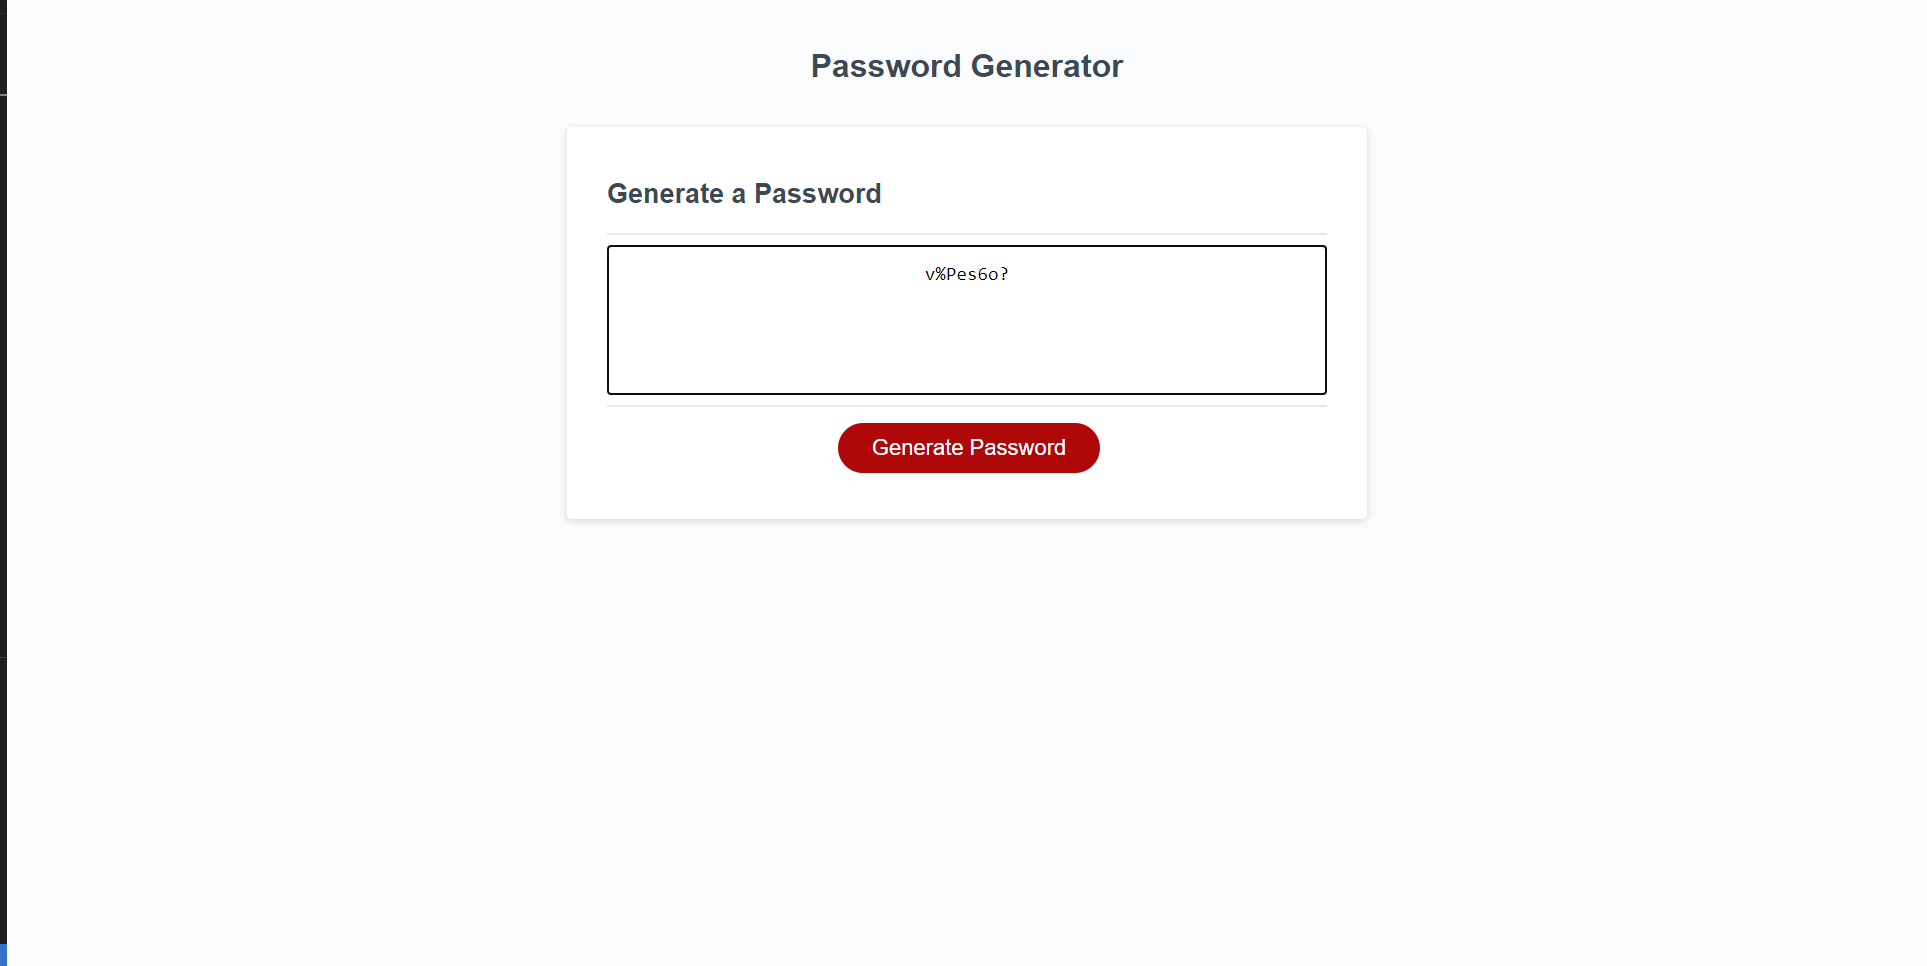
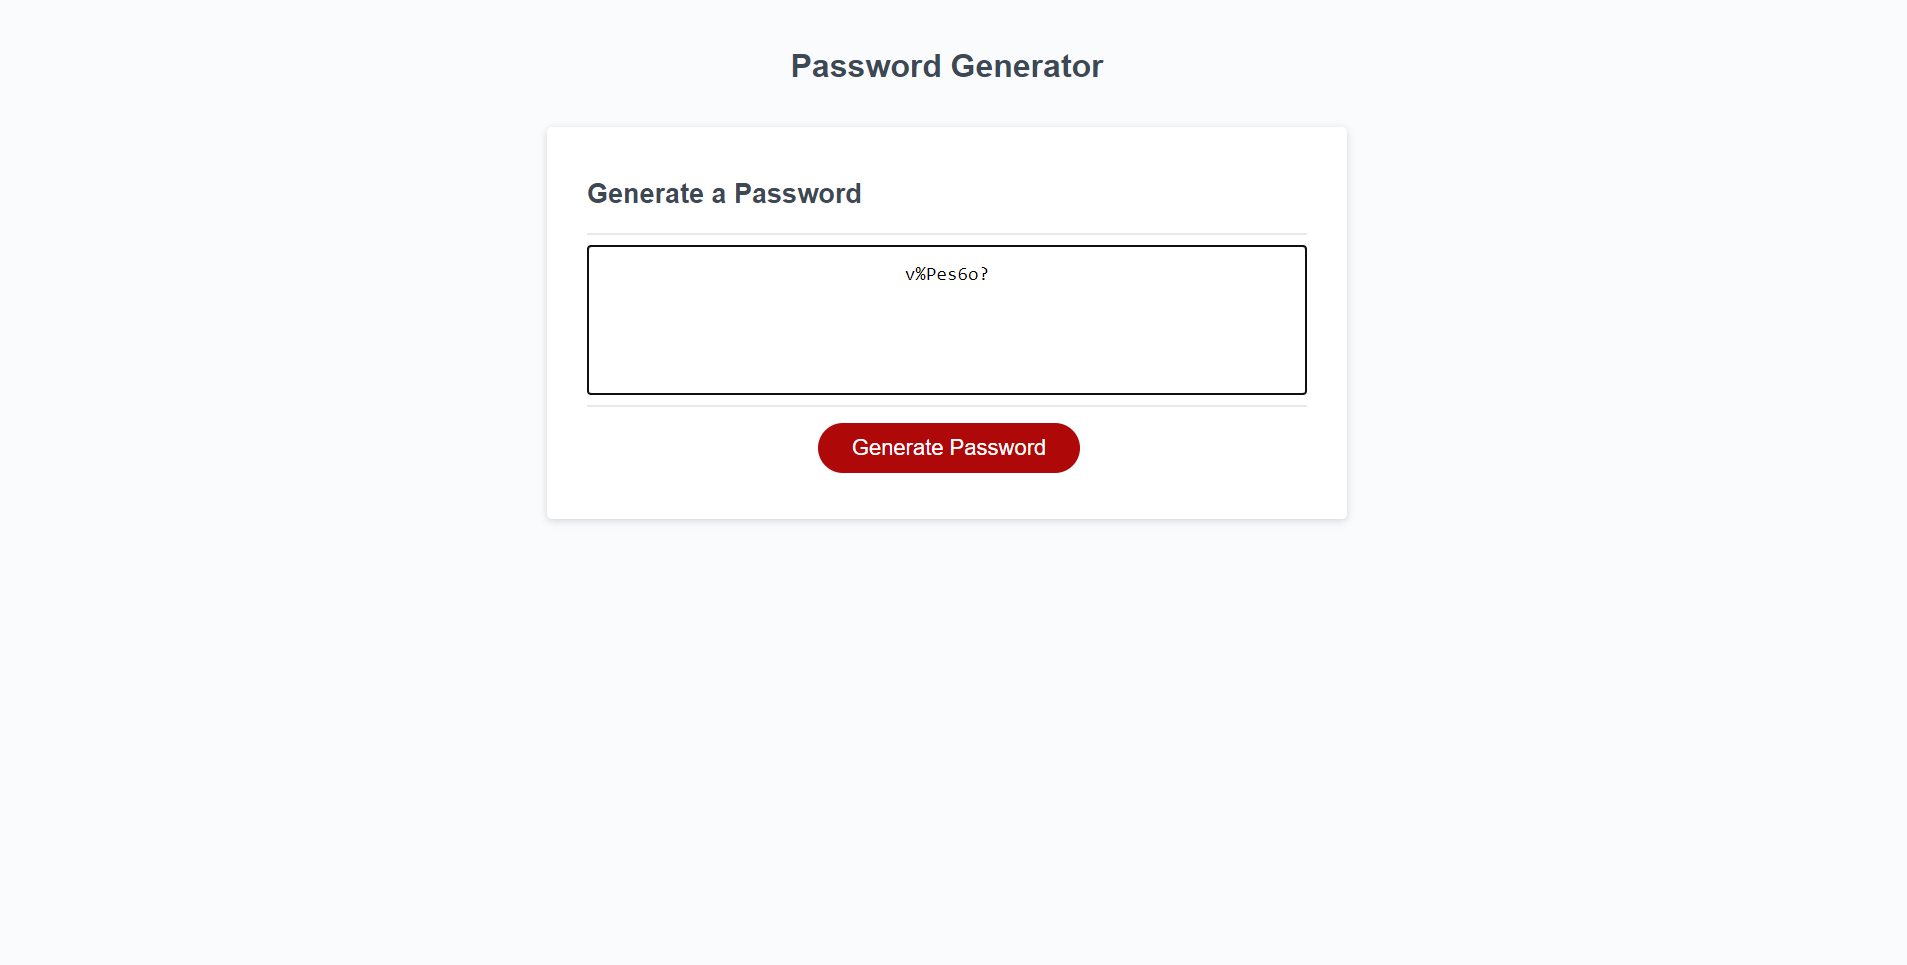
fixed the demo picture size and cropped the picture

diff --git a/README.md b/README.md
@@ -5,7 +5,7 @@ Create random passwords for the client.
 The password generator can limit the types of characters to be included in the password.
 
 ## Demo
-<img src="./assets/images/Demo.png" alt="Picture of the website">
+<img src="./assets/images/Demo.png" alt="Picture of the website" width="404">
 
 ## Built With
 * HTML
